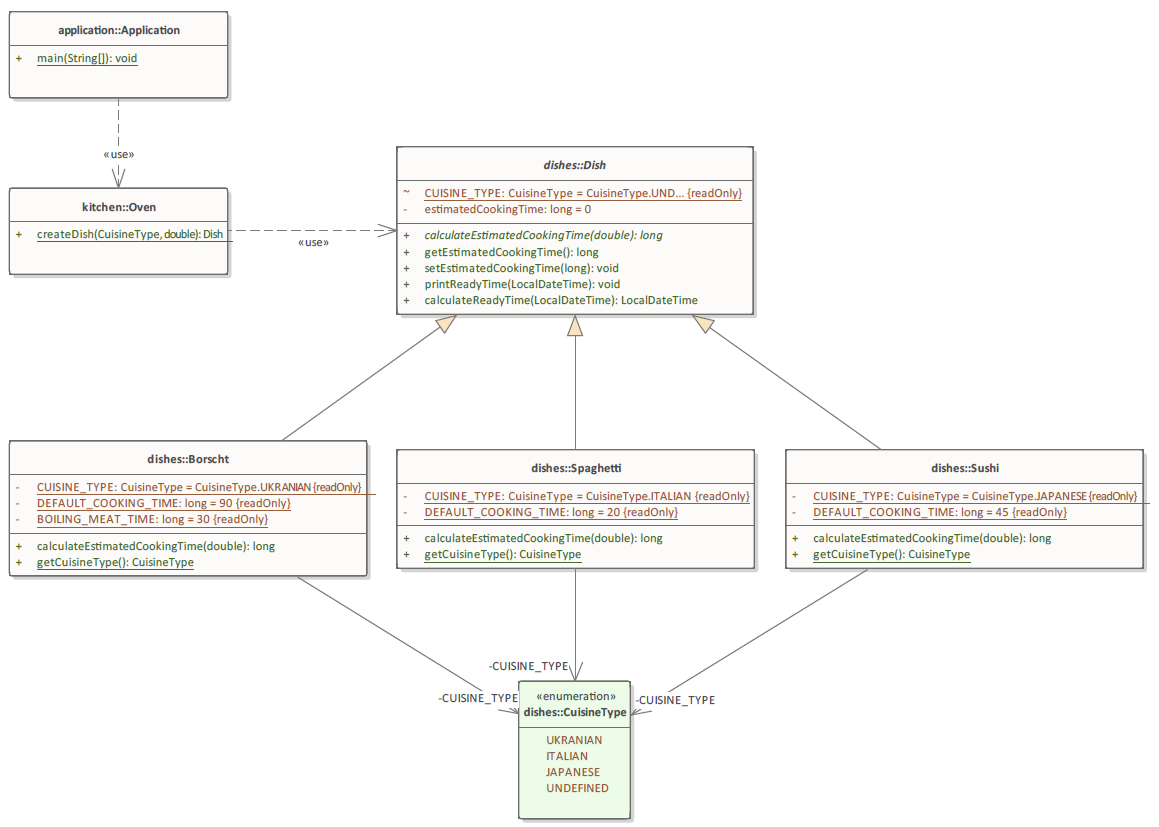
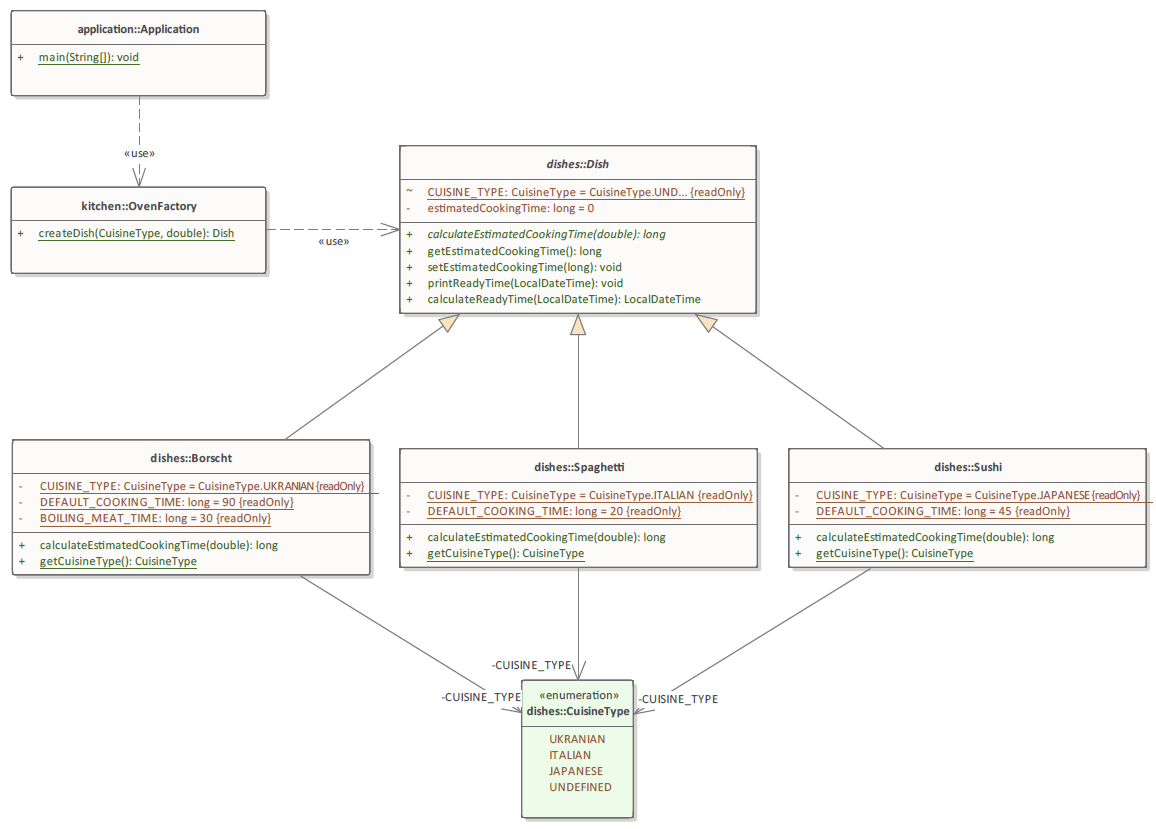
Change the name of the Factory method pattern class.

diff --git a/src/main/java/com/foxminded/isaev/factorymethod/application/Application.java b/src/main/java/com/foxminded/isaev/factorymethod/application/Application.java
@@ -3,19 +3,19 @@ package com.foxminded.isaev.factorymethod.application;
 import java.time.LocalDateTime;
 
 import com.foxminded.isaev.factorymethod.dishes.CuisineType;
-import com.foxminded.isaev.factorymethod.kitchen.Oven;
+import com.foxminded.isaev.factorymethod.kitchen.OvenFactory;
 
 public class Application {
 
     public static void main(String[] args) {
 
-        var ukranianDish = Oven.createDish(CuisineType.UKRANIAN, 1.0D);
+        var ukranianDish = OvenFactory.createDish(CuisineType.UKRANIAN, 1.0D);
         ukranianDish.printReadyTime(LocalDateTime.now());
 
-        var italianDish = Oven.createDish(CuisineType.ITALIAN, 1.0D);
+        var italianDish = OvenFactory.createDish(CuisineType.ITALIAN, 1.0D);
         italianDish.printReadyTime(LocalDateTime.now());
 
-        var japaneseDish = Oven.createDish(CuisineType.JAPANESE, 1.0D);
+        var japaneseDish = OvenFactory.createDish(CuisineType.JAPANESE, 1.0D);
         japaneseDish.printReadyTime(LocalDateTime.now());
 
     }

diff --git a/src/test/java/com/foxminded/isaev/factorymethod/kitchen/OvenFactoryTest.java b/src/test/java/com/foxminded/isaev/factorymethod/kitchen/OvenFactoryTest.java
@@ -9,18 +9,18 @@ import com.foxminded.isaev.factorymethod.dishes.CuisineType;
 import com.foxminded.isaev.factorymethod.dishes.Spaghetti;
 import com.foxminded.isaev.factorymethod.dishes.Sushi;
 
-class OvenTest {
+class OvenFactoryTest {
 
     @Test
     void shouldCreateNationalDishes() {
 
-        var ukranianDish = Oven.createDish(CuisineType.UKRANIAN, 1.5D);
+        var ukranianDish = OvenFactory.createDish(CuisineType.UKRANIAN, 1.5D);
         assertEquals(Borscht.class, ukranianDish.getClass());
 
-        var italianDish = Oven.createDish(CuisineType.ITALIAN, 1.5D);
+        var italianDish = OvenFactory.createDish(CuisineType.ITALIAN, 1.5D);
         assertEquals(Spaghetti.class, italianDish.getClass());
 
-        var japaneseDish = Oven.createDish(CuisineType.JAPANESE, 1.5D);
+        var japaneseDish = OvenFactory.createDish(CuisineType.JAPANESE, 1.5D);
         assertEquals(Sushi.class, japaneseDish.getClass());
 
     }

diff --git a/src/main/java/com/foxminded/isaev/factorymethod/kitchen/OvenFactory.java b/src/main/java/com/foxminded/isaev/factorymethod/kitchen/OvenFactory.java
@@ -6,7 +6,7 @@ import com.foxminded.isaev.factorymethod.dishes.Dish;
 import com.foxminded.isaev.factorymethod.dishes.Spaghetti;
 import com.foxminded.isaev.factorymethod.dishes.Sushi;
 
-public class Oven {
+public class OvenFactory {
 
     public static Dish createDish(CuisineType cuisineType, double busyRate) {
 
